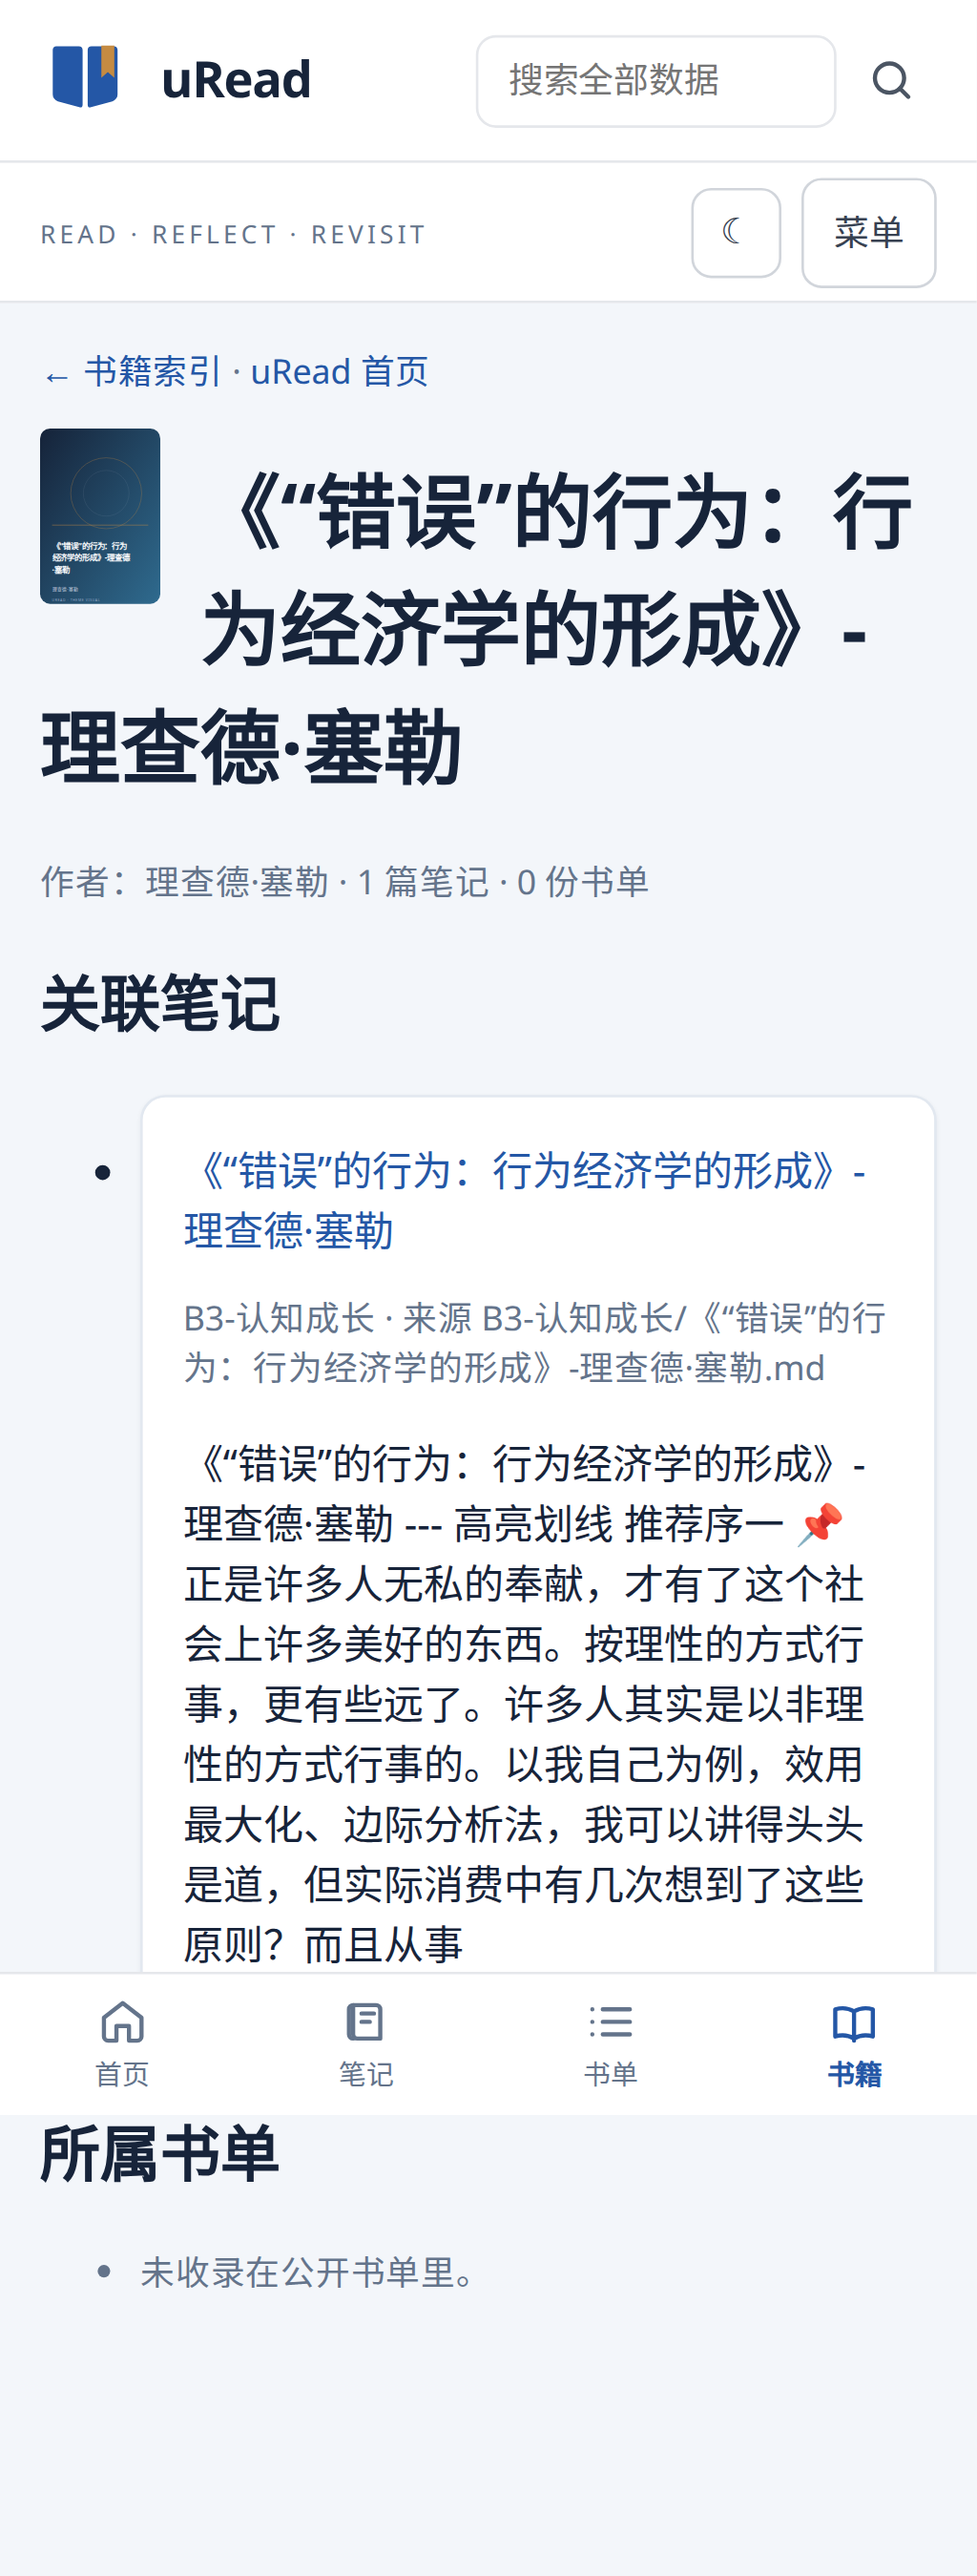
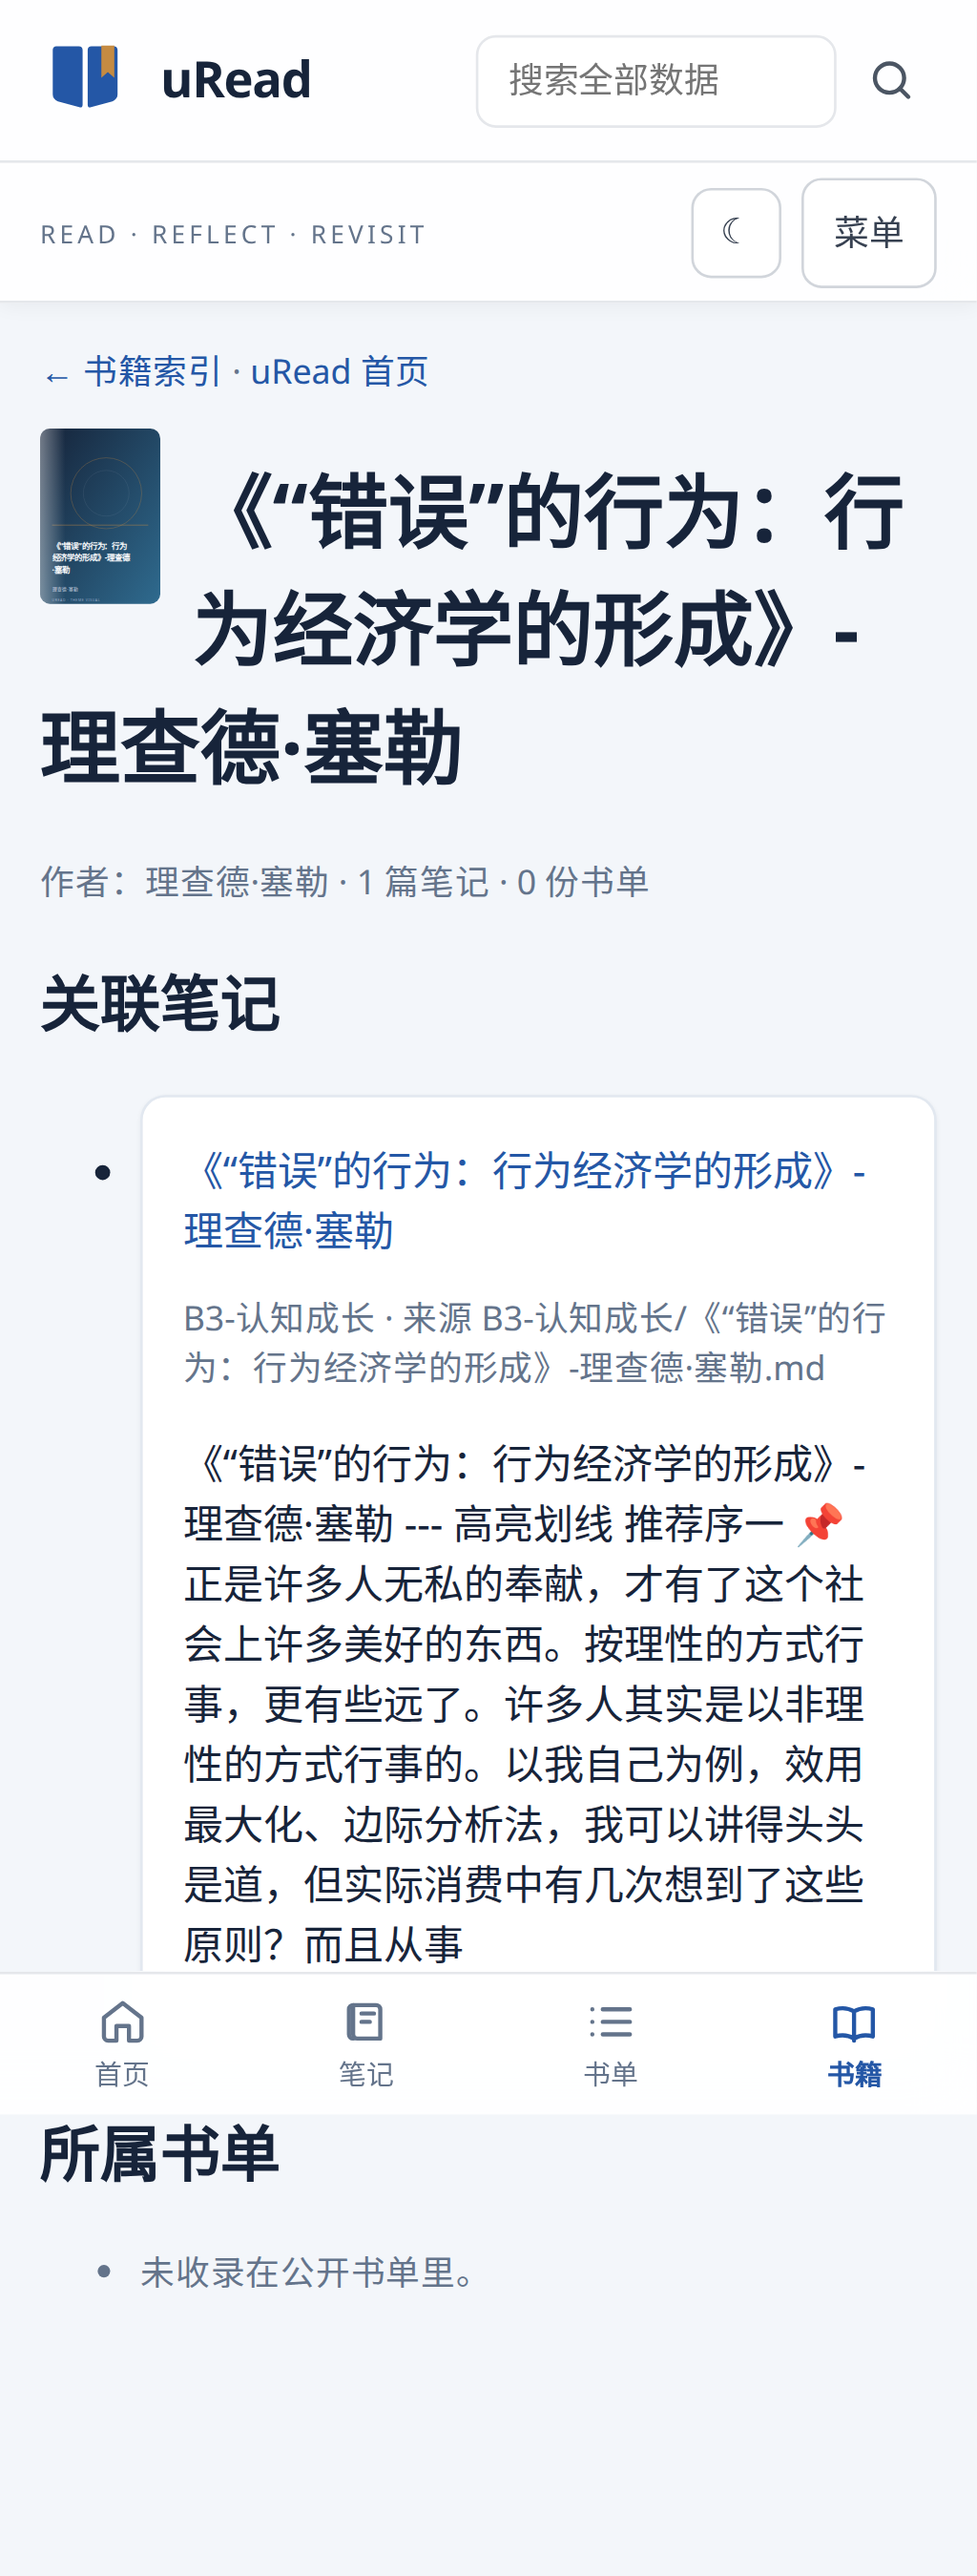
style: 书页毛玻璃导航、真实统计条与书封悬浮效果（保留共享导航与真实数据）

Changed region(s): [[0.2188, 0.1867, 0.8125, 0.2801], [0.8438, 0.1867, 0.9375, 0.2179], [0.0312, 0.1556, 0.0625, 0.249]]

diff --git a/book-library/site-nav.html b/book-library/site-nav.html
@@ -3,7 +3,7 @@
      移动端与 src/components/Navbar.tsx + MobileBottomNav.tsx 对齐：
        顶栏 = 品牌 + 搜索；第二行 = 品牌语 + 主题开关 + 菜单；底栏 = 首页/笔记/书单/书籍。 -->
 <style>
-.uread-site-nav{position:sticky;top:0;z-index:50;background:light-dark(#fff,#1e293b);border-bottom:1px solid light-dark(#e5e7eb,#334155)}
+.uread-site-nav{position:sticky;top:0;z-index:50;background:light-dark(rgba(255,255,255,.86),rgba(30,41,59,.86));backdrop-filter:blur(12px);-webkit-backdrop-filter:blur(12px);border-bottom:1px solid light-dark(#e5e7eb,#334155);box-shadow:0 1px 8px rgba(15,23,42,.06)}
 .uread-site-nav__inner{max-width:1280px;margin:0 auto;padding:0 1rem;min-height:64px;display:flex;align-items:center;justify-content:space-between;gap:1rem}
 .uread-brand{display:flex;align-items:center;gap:.75rem;color:light-dark(#17243A,#f1f5f9);text-decoration:none;flex-shrink:0}
 .uread-brand:hover{text-decoration:none}
@@ -29,7 +29,7 @@
 
 /* 以下两块只在移动端出现，结构与 React 主站一致 */
 .uread-mobile-bar,.uread-bottom-nav{display:none}
-.uread-mobile-menu{margin:0;padding:.5rem 1rem;list-style:none;border-top:1px solid light-dark(#e5e7eb,#334155);background:light-dark(#fff,#1e293b)}
+.uread-mobile-menu{margin:0;padding:.5rem 1rem;list-style:none;border-top:1px solid light-dark(#e5e7eb,#334155);background:light-dark(rgba(255,255,255,.94),rgba(30,41,59,.94));backdrop-filter:blur(12px);-webkit-backdrop-filter:blur(12px)}
 .uread-mobile-menu[hidden]{display:none}
 .uread-mobile-menu a{display:block;padding:.6rem 0;font-size:14px;color:light-dark(#17243A,#f1f5f9);text-decoration:none}
 .uread-mobile-menu a[aria-current="page"]{color:light-dark(#2457A6,#93c5fd);font-weight:600}
@@ -48,7 +48,7 @@
   .uread-mobile-bar span{font-size:10px;letter-spacing:.16em;color:light-dark(#64748B,#cbd5e1)}
   .uread-mobile-actions{display:flex;align-items:center;gap:.5rem}
   .uread-mobile-menu-btn{min-height:44px;min-width:44px;padding:0 .75rem;border:1px solid light-dark(#d1d5db,#475569);border-radius:.5rem;background:light-dark(#fff,#1e293b);color:light-dark(#374151,#e2e8f0);font:inherit;font-size:14px;cursor:pointer}
-  .uread-bottom-nav{display:block;position:fixed;inset-inline:0;bottom:0;z-index:40;border-top:1px solid light-dark(#e5e7eb,#334155);background:light-dark(#fff,#1e293b);padding-bottom:env(safe-area-inset-bottom)}
+  .uread-bottom-nav{display:block;position:fixed;inset-inline:0;bottom:0;z-index:40;border-top:1px solid light-dark(#e5e7eb,#334155);background:light-dark(rgba(255,255,255,.9),rgba(30,41,59,.9));backdrop-filter:blur(12px);-webkit-backdrop-filter:blur(12px);padding-bottom:env(safe-area-inset-bottom)}
   .uread-bottom-nav ul{display:grid;grid-template-columns:repeat(4,1fr);margin:0;padding:0;list-style:none}
   .uread-bottom-link{display:flex;min-height:56px;flex-direction:column;align-items:center;justify-content:center;gap:.125rem;font-size:11px;text-decoration:none;color:light-dark(#64748B,#94a3b8)}
   .uread-bottom-link svg{width:20px;height:20px}

diff --git a/tests/e2e/books-visual.spec.ts b/tests/e2e/books-visual.spec.ts
@@ -1,0 +1,26 @@
+/** 书页视觉升级回归：真实统计、共享导航、毛玻璃吸顶、明暗一致。 */
+import { expect, test } from '@playwright/test';
+
+test('书籍索引展示真实统计且导航为共享的毛玻璃栏', async ({ page }) => {
+  await page.goto('books/');
+
+  const stats = page.locator('.uread-stat');
+  await expect(stats).toHaveCount(4);
+  await expect(stats.nth(0)).toContainText('1804');
+  await expect(stats.nth(1)).toContainText('1714');
+  await expect(stats.nth(2)).toContainText('680');
+  await expect(stats.nth(3)).toContainText('2');
+
+  const nav = page.locator('.uread-site-nav');
+  await expect(nav).toBeVisible();
+  expect(await nav.evaluate((element) => getComputedStyle(element).position)).toBe('sticky');
+  expect(await nav.evaluate((element) => getComputedStyle(element).backdropFilter)).toContain('blur');
+  await expect(page.locator('.uread-nav-link')).toHaveCount(5);
+});
+
+test('移动端书页仍有四宫格底栏与真实统计', async ({ page }) => {
+  await page.setViewportSize({ width: 390, height: 844 });
+  await page.goto('books/');
+  await expect(page.locator('.uread-bottom-nav a')).toHaveCount(4);
+  await expect(page.locator('.uread-stat').first()).toContainText('1804');
+});

diff --git a/CHANGELOG.md b/CHANGELOG.md
@@ -2,6 +2,14 @@
 
 本文件遵循 [Keep a Changelog](https://keepachangelog.com/zh-CN/1.1.0/)，版本号遵循语义化版本。
 
+## [0.34.3] - 2026-11-23
+
+### 视觉升级
+- 书页共享导航改为毛玻璃吸顶：顶栏、移动端第二行与底栏统一半透明模糊背景，明暗模式均适配。
+- 书籍索引新增由真实构建数据生成的统计条（书籍记录 / 关联笔记 / 收录书单 / 可在线阅读），不使用占位数字。
+- 书封增加书脊光泽与悬浮轻微放大，卡片悬浮抬升；尊重系统「减少动态效果」偏好。
+- 不引入远程图片、不替换真实 1804 本书、不改动共享导航结构与暗色体系。
+
 ## [0.34.2] - 2026-11-23
 
 ### 体验修复

diff --git a/design-system.md b/design-system.md
@@ -1,6 +1,6 @@
 # uRead Design System（以实际代码为准）
 
-> 状态基准：2026-11-23 · 版本 0.34.2 · Content Edition
+> 状态基准：2026-11-23 · 版本 0.34.3 · Content Edition
 > 本文件只记录当前真实组件与令牌。旧版「功能堆叠 / 渐变卡片 / 瀑布流」示例已失效。
 
 ## 设计定位

diff --git a/docs/migration/reconciliation.md b/docs/migration/reconciliation.md
@@ -4,7 +4,7 @@ title: 发版内容对账
 description: "迁移前后数量、逐项哈希、深链回退与书籍索引的最终对账结果。"
 ---
 
-生成时间：2026-11-23T06:27:58.568Z
+生成时间：2026-11-23T06:45:45.203Z
 
 | 对账项 | 基线 | 当前 | 结果 |
 | --- | ---: | ---: | --- |

diff --git a/ui-ux-design-system.md b/ui-ux-design-system.md
@@ -1,6 +1,6 @@
 # uRead UI/UX 规范（实际交互版）
 
-> 状态基准：2026-11-23 · 版本 0.34.2
+> 状态基准：2026-11-23 · 版本 0.34.3
 > 本文件描述**现在能用的交互**，不是早期原型规划。
 
 ## 两种使用场景必须分开
